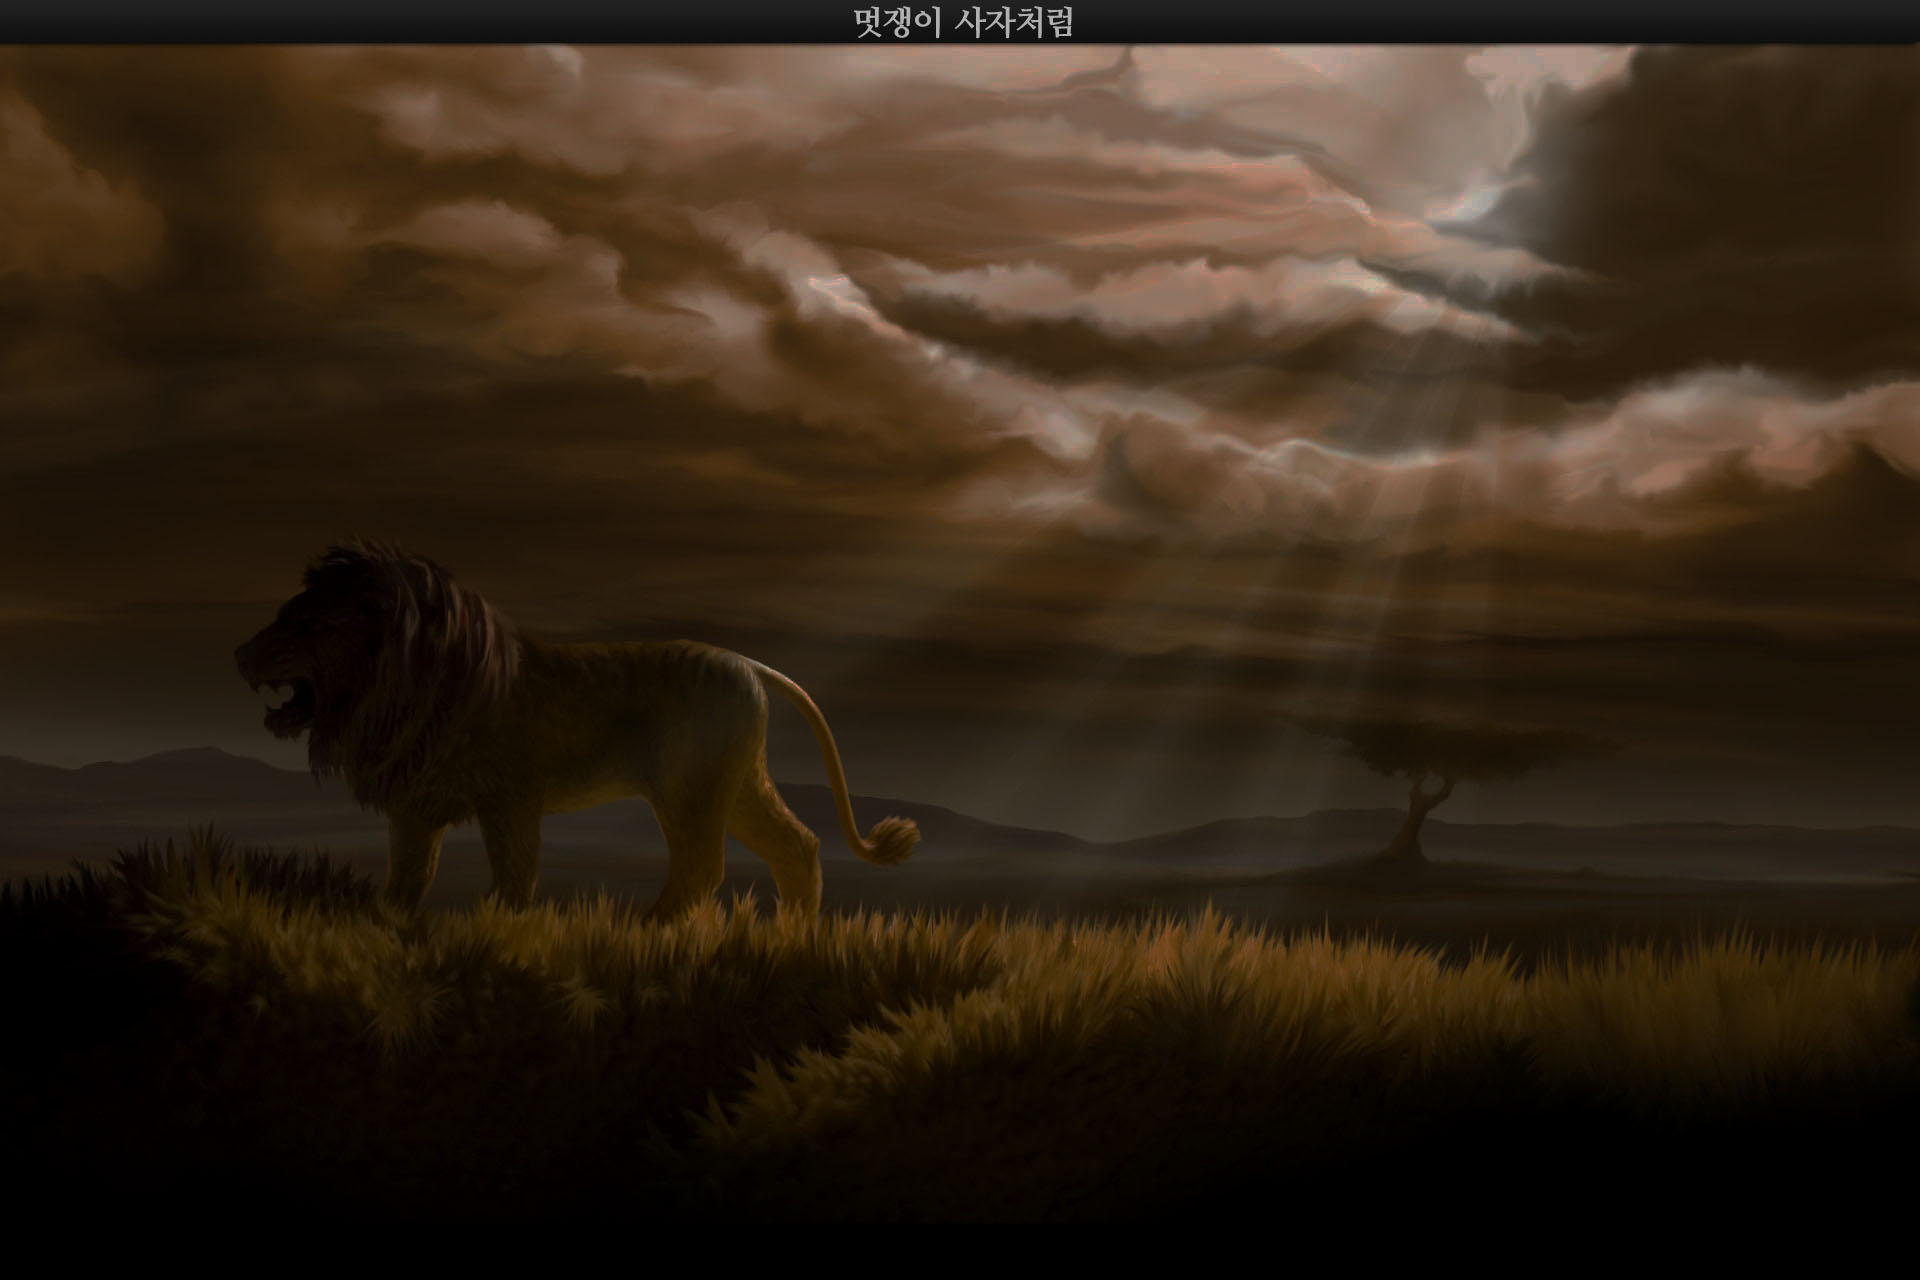
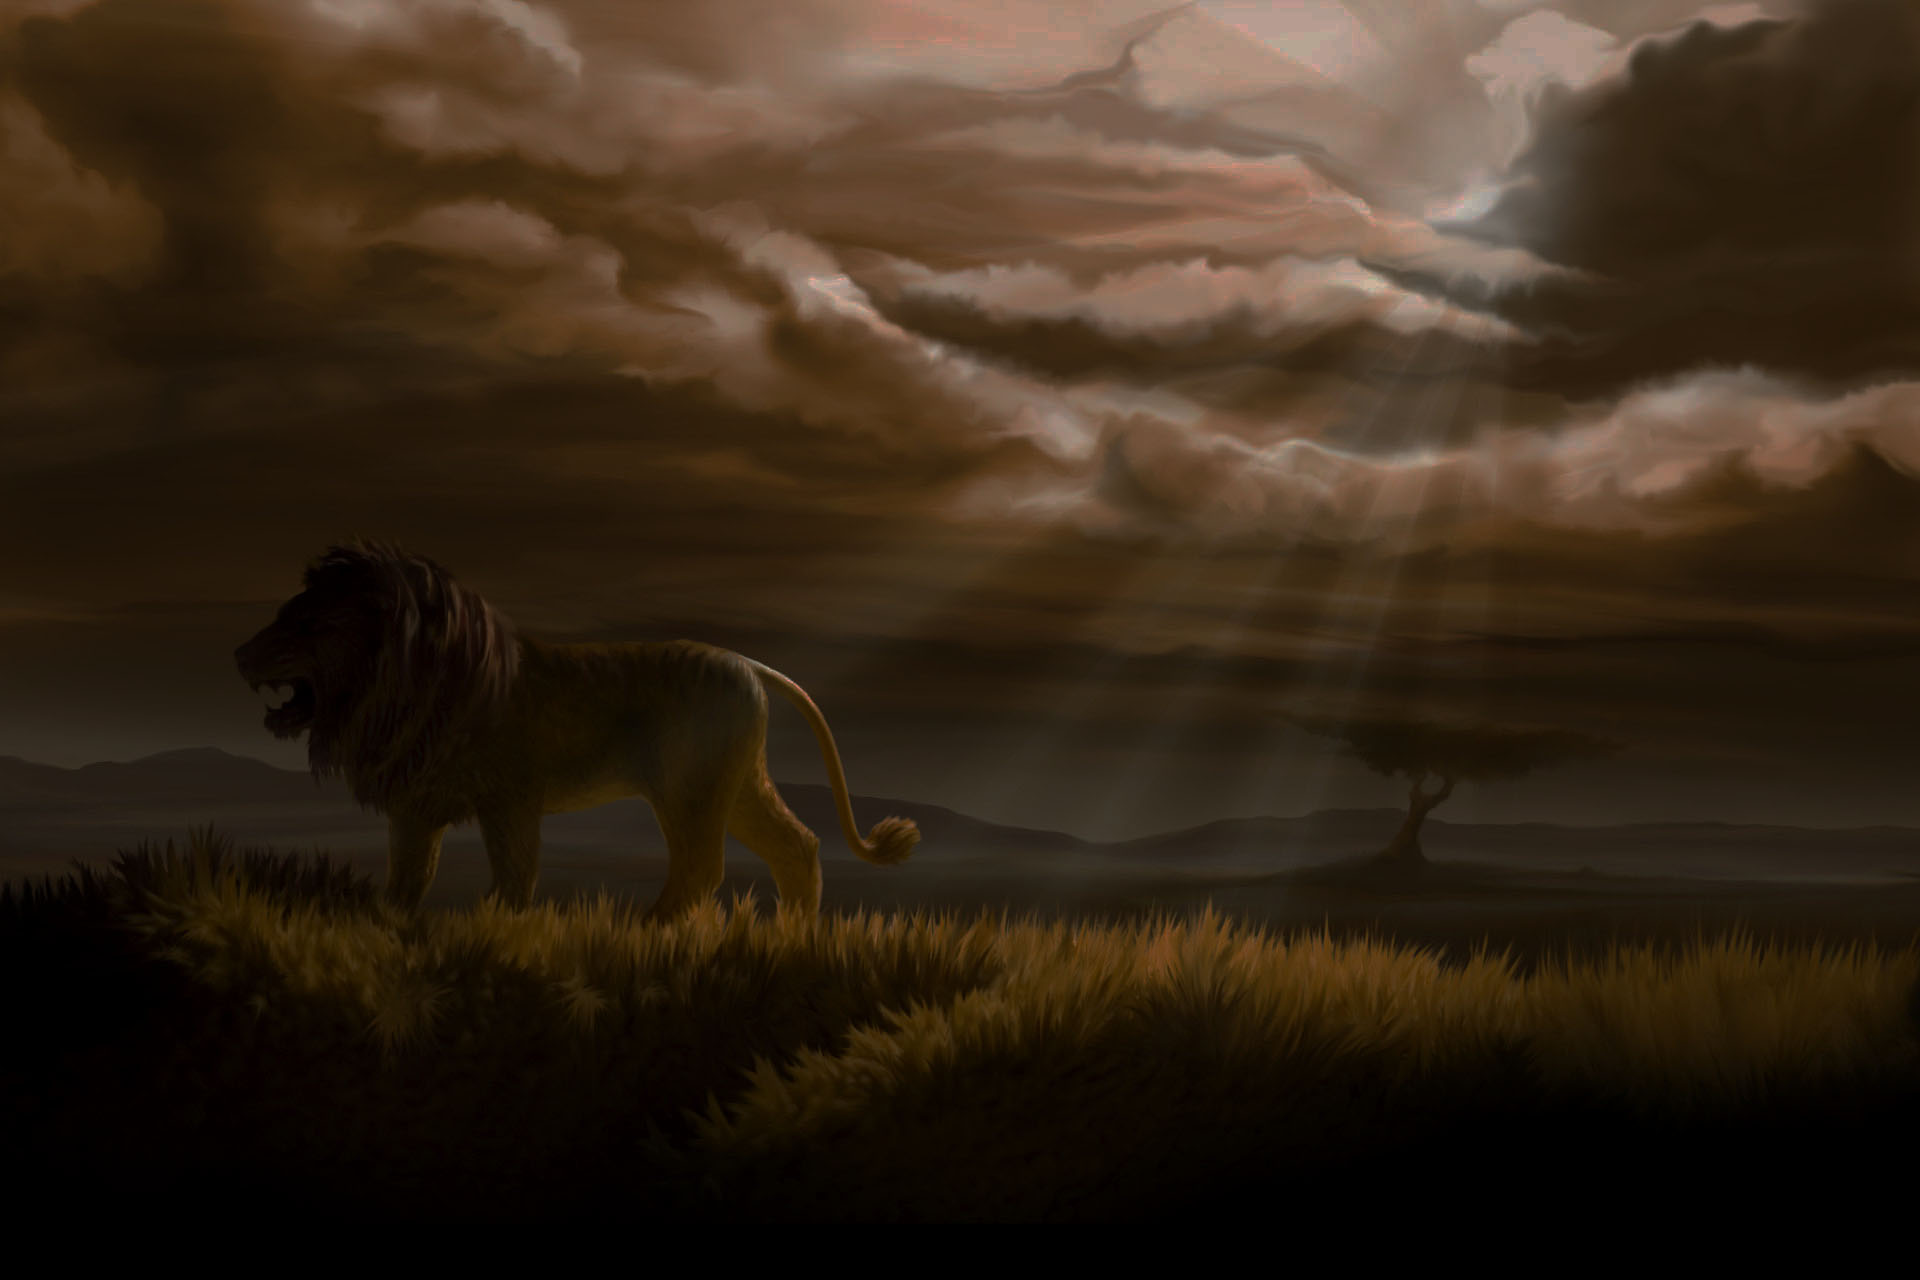
static

Changed region(s): [[0.0, 0.0, 1.0, 0.0625]]

diff --git a/app/assets/stylesheets/home.css.scss b/app/assets/stylesheets/home.css.scss
@@ -1,26 +1,59 @@
+html { 
+  background: url(/assets/lion.jpg) no-repeat top center fixed; 
+  -webkit-background-size: cover;
+  -moz-background-size: cover;
+  -o-background-size: cover;
+  background-size: cover;
+}
 body{
-  margin:0;
   padding:0;
+  margin:0;
+}
+#big_text_wrapper{
+  padding-top:100px;
+  text-align:center;
+}
+#big_text_wrapper p{
+  font-family: 'NanumMyeongjoExtraBoldWeb';
+  font-size:90px; 
+  color:#e9e9e9; 
+  margin:0;
+  margin-bottom:10px;
+}
+#promise_wrapper{
+  width:100%;
+  margin-top:40px;
+  margin-bottom:60px;
+  padding:30px 0px 50px 0px;
+  background-image:url('/assets/opacity.png');
+}
+#promise{
+  color:#b8b8b8;
+  width:770px;
+  margin:0 auto;
+  font-size:35px;
+  font-family: 'NanumMyeongjoExtraBoldWeb';
+}
+#promise li{ margin-top:20px; }
+#top_nav{
+  width:100%;
+  height:49px;
+  background-image:url('/assets/vertical.png');
+  background-repeat:repeat-x;
+  position:fixed;
+  text-align:center;
+}
+#top_nav span{
+  font-family: 'NanumMyeongjoExtraBoldWeb';
+  font-size:35px; 
+  color:#e9e9e9; 
+}
+#facebook_division{
+  left:50%;
+  margin-left:-400px;
+  padding-top:10px;
+  position:fixed;
+}
 
-}
-img.bg {
-  /* Set rules to fill background */
-  min-height: 100%;
-  min-width: 1024px;
-  
-  /* Set up proportionate scaling */
-  width: 100%;
-  height: auto;
-  
-  /* Set up positioning */
-  position: fixed;
-  top: 0;
-  left: 0;
-}
-
-@media screen and (max-width: 1024px) { /* Specific to this particular image */
-  img.bg {
-    left: 50%;
-    margin-left: -512px;   /* 50% */
-  }
-}
+#footer{text-align:center;}
+#footer_text{ font-family: 'NanumMyeongjoExtraBoldWeb';font-size:30px; color:#e9e9e9; }
